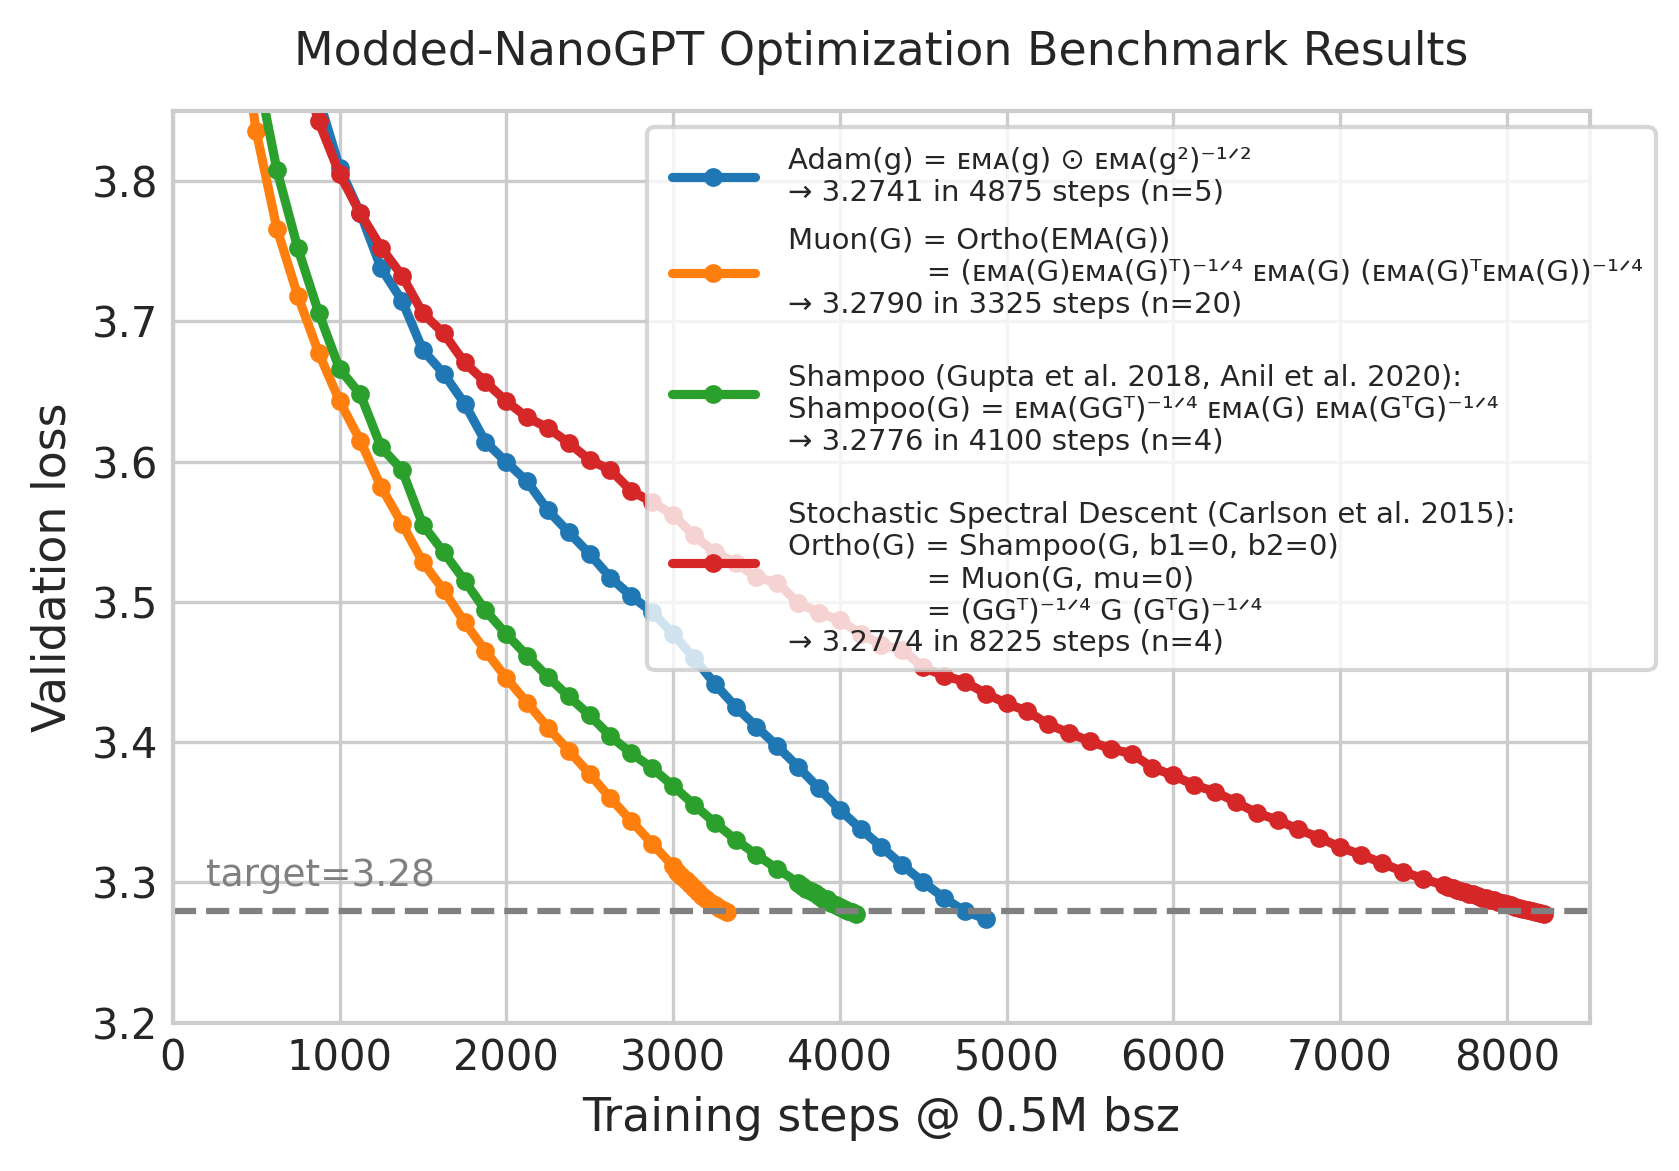
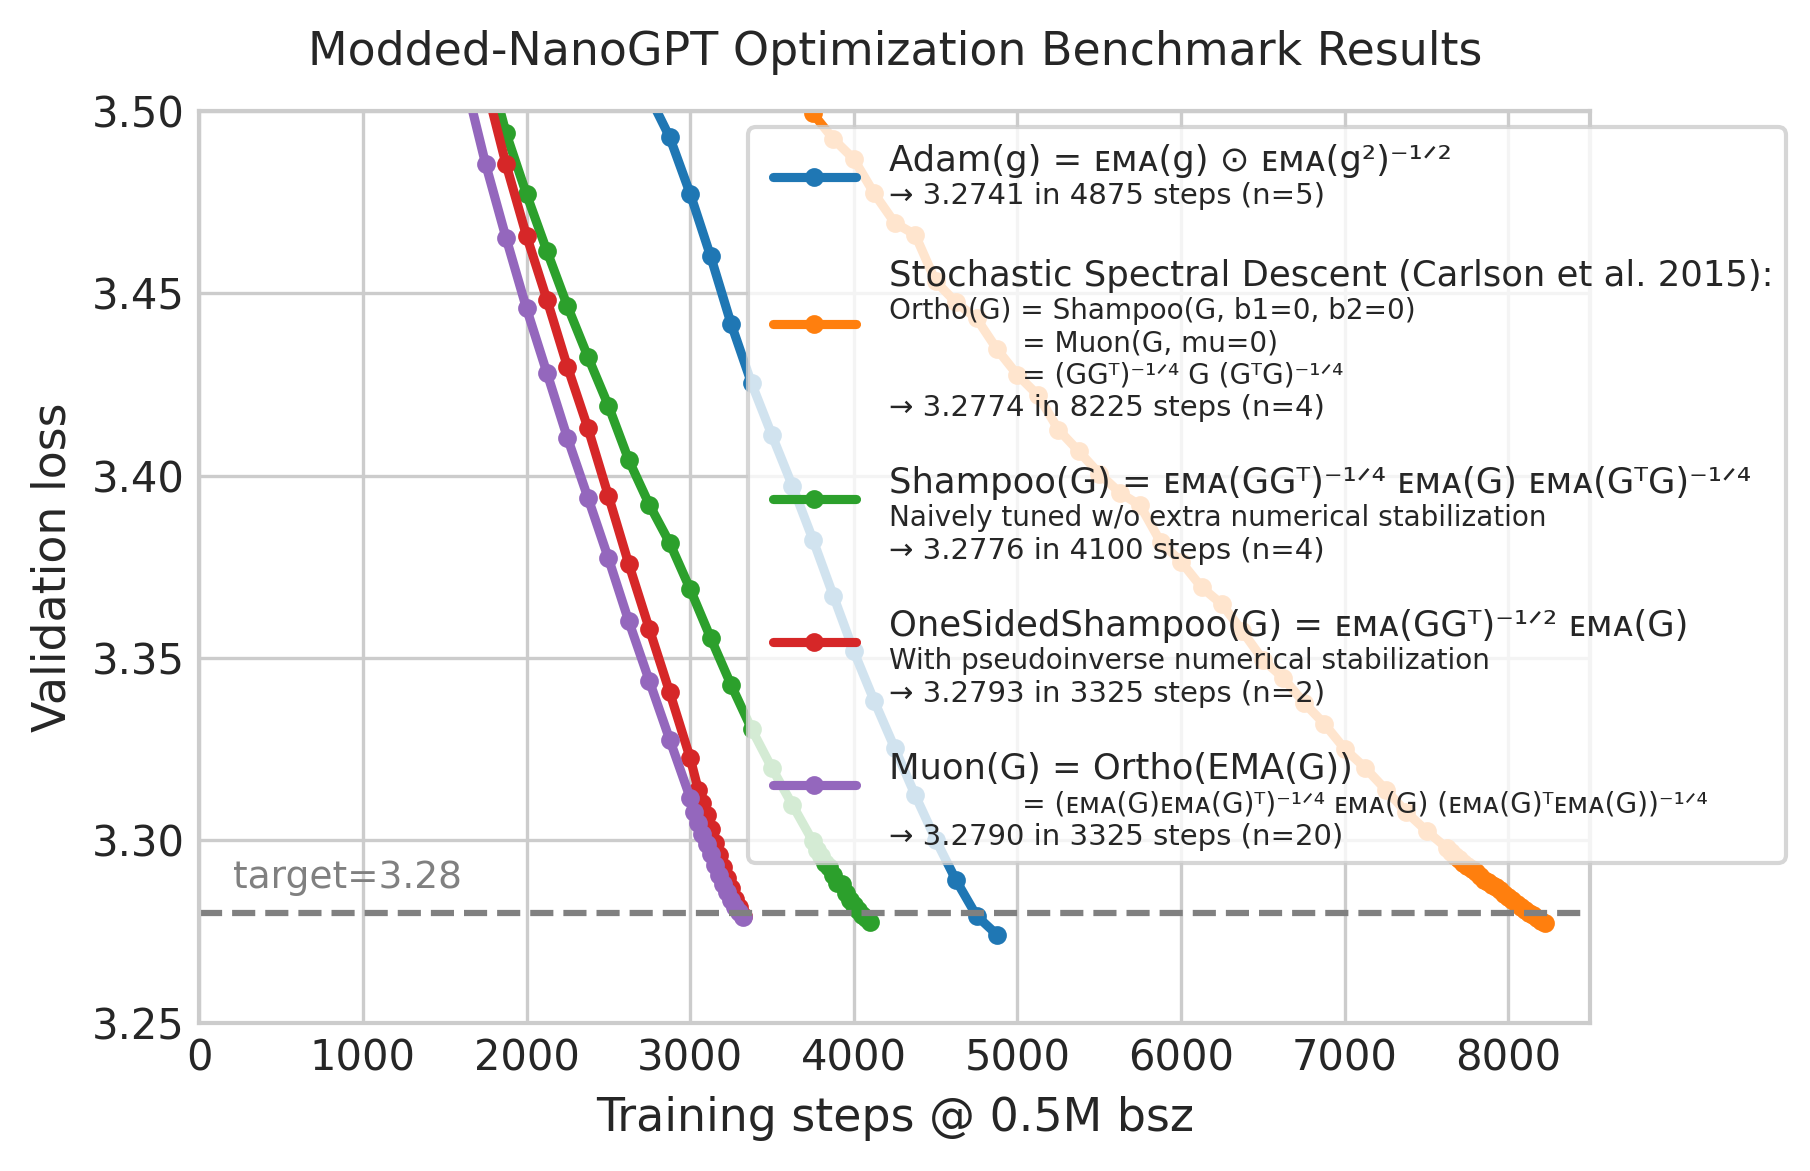
.

diff --git a/records/track_3_optimization/README.md b/records/track_3_optimization/README.md
@@ -101,7 +101,11 @@ Figure 2. Per-optimizer best.
 
 <br/><br/>
 
-![Optimizer Comparison](img/muon_shampoo_ssd.png)
+<table>
+  <tr>
+    <td width="50%"><img src="img/muon_shampoo_ssd.png" width="100%"></td>
+  </tr>
+</table>
 Figure 3. Comparison between Shampoo and Muon, which both reduce to Spectral Descent when momentum is removed.
 
 ## Rules